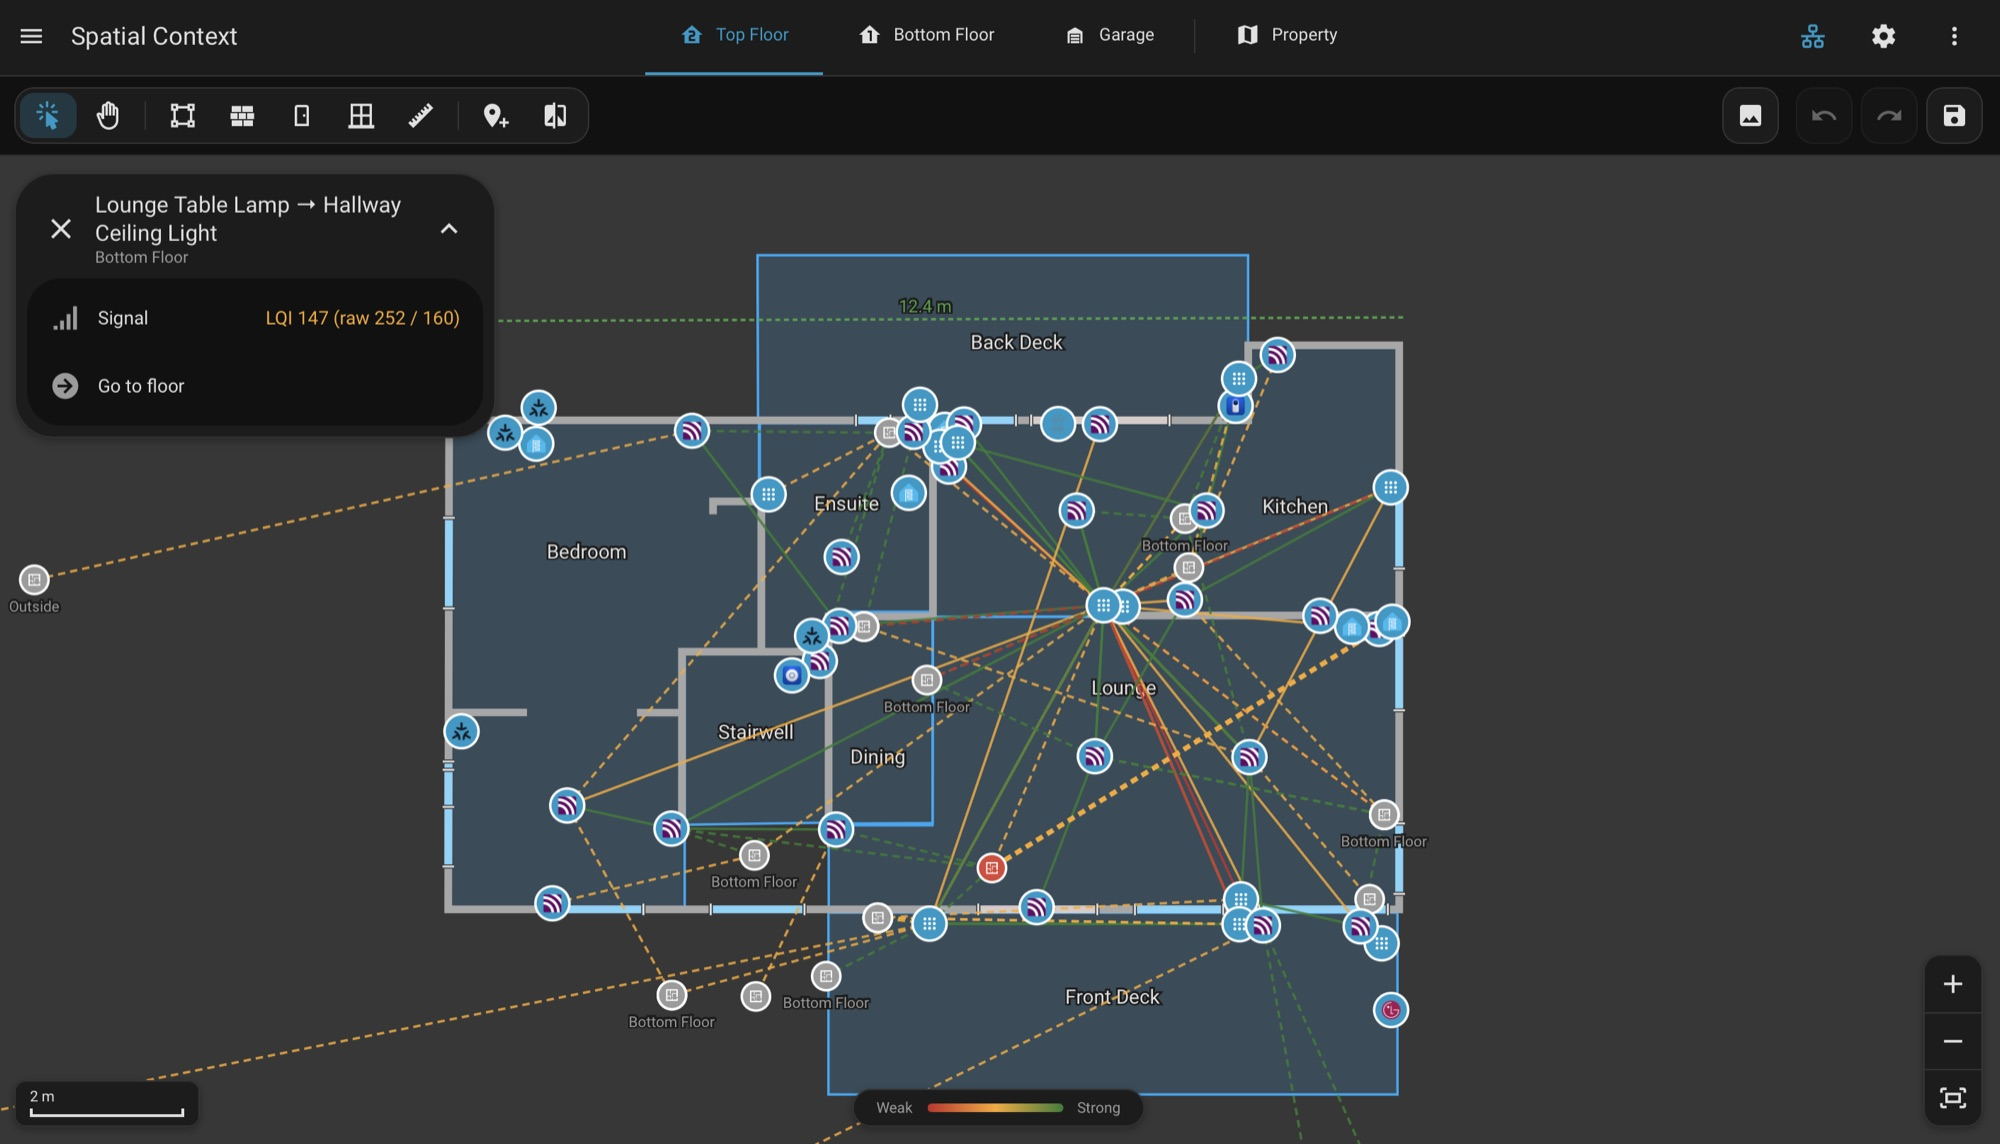
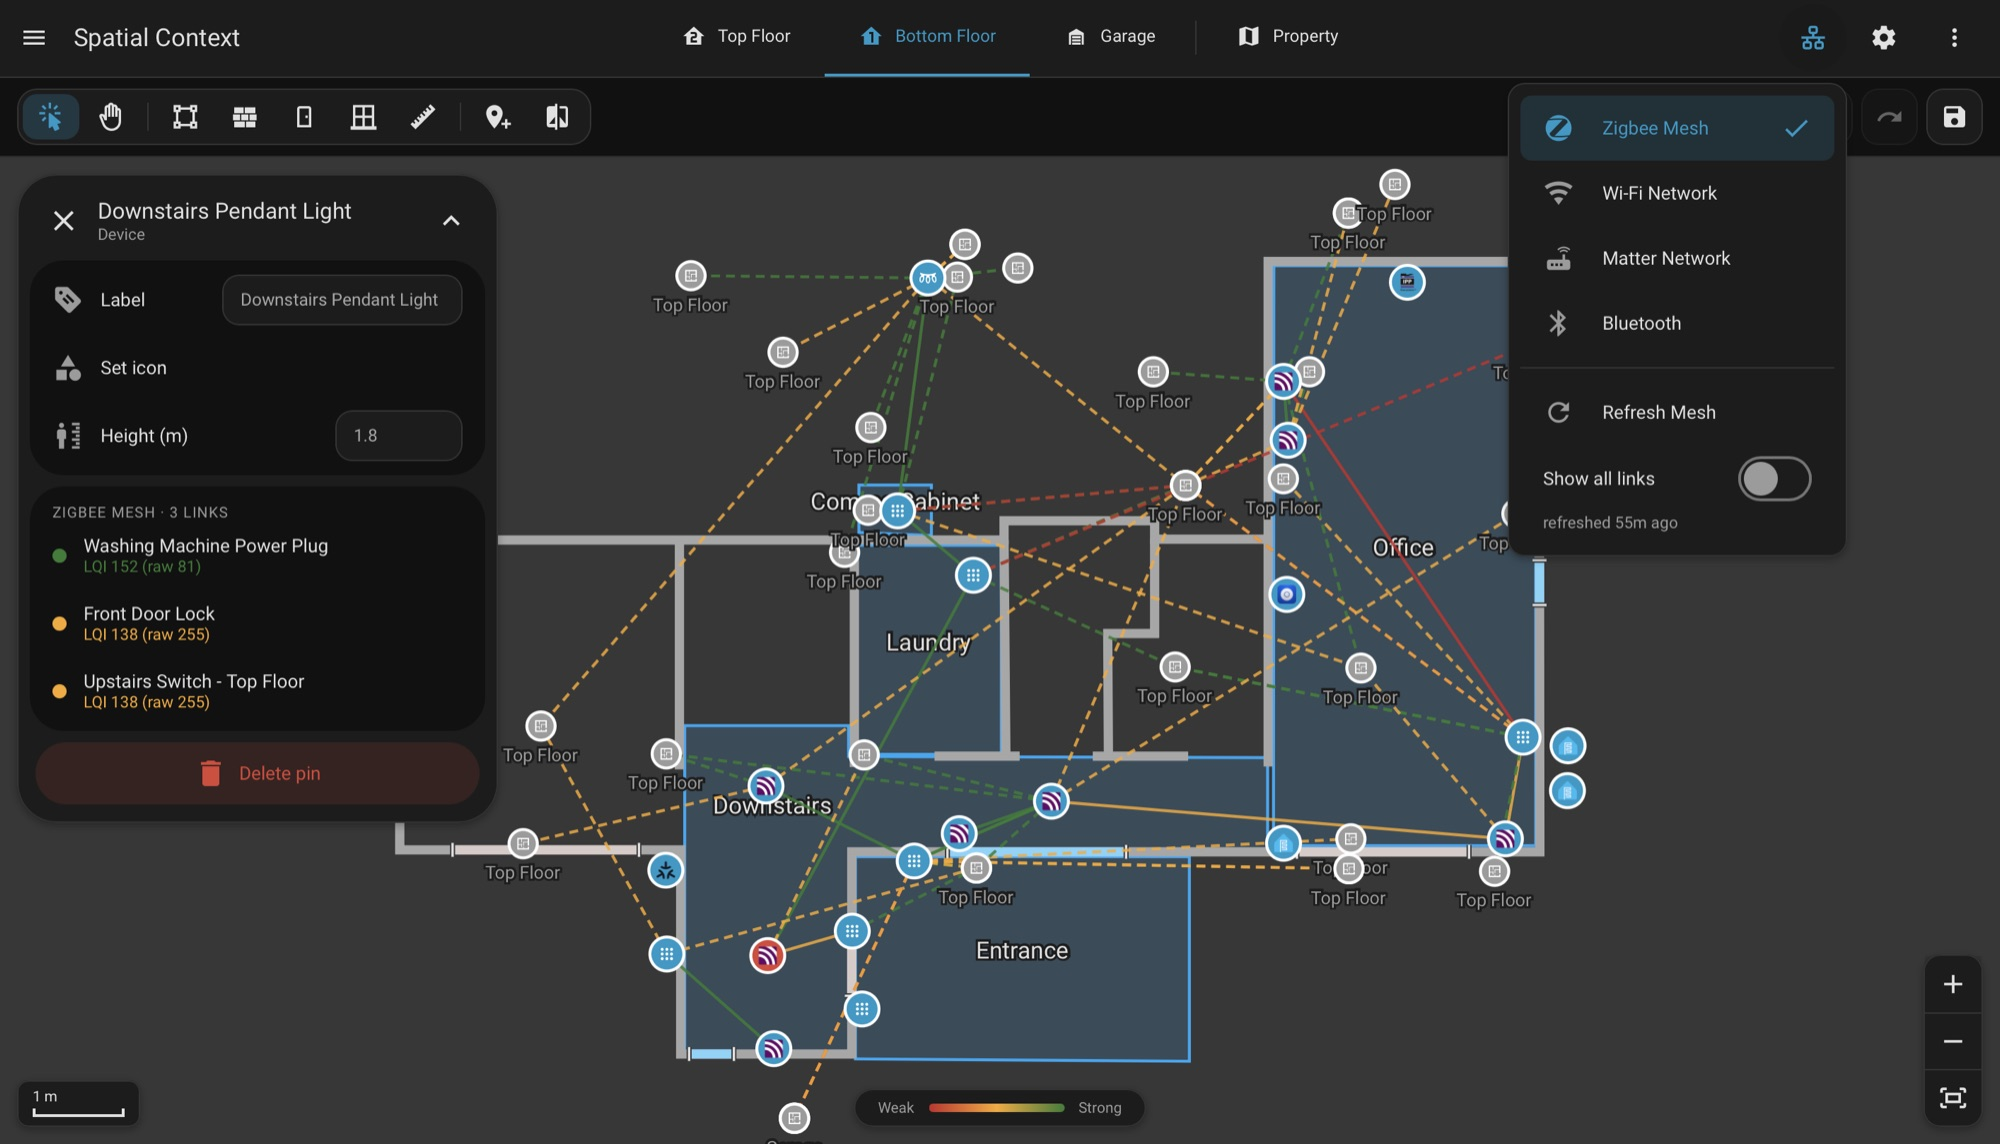
Hero image is the Bottom Floor Zigbee mesh shot (menu and device card visible); the Top Floor mesh shot moves to the Connectivity section

diff --git a/README.md b/README.md
@@ -6,7 +6,7 @@
 
 Home Assistant knows your devices by name and area, but not where anything actually *is*: how far the hallway sensor is from the router, which walls sit between a Zigbee bulb and its parent, what's on the other side of the garage door. Spatial Context lets you trace your floor plans over the top of your house plans, place your real devices on them, and hand the result to an AI assistant, an automation or a script as real-world, measured data.
 
-![Spatial Context showing a live Zigbee mesh over the Top Floor: rooms, walls, placed devices, and every link coloured by signal quality](docs/screenshot-main.jpeg)
+![Spatial Context on the Bottom Floor with the Zigbee mesh layer on: every link coloured by signal quality, the layer menu open, and a device card listing that device's links](docs/screenshot-main.jpeg)
 
 ## What you get
 
@@ -183,7 +183,7 @@ The cog in the header opens **Settings**. They're shared by everyone who uses th
 
 The **network** button in the header opens the layers. Pick one to draw that network's links between your placed devices, coloured weak to strong, with a key along the bottom of the canvas. The layer **stays on** after you close the menu (the button turns blue while one is showing); pick it again to turn it off. Select a device and its card lists every link it has, strongest first, with the signal detail. Click a line for that link's details.
 
-![Zigbee mesh layer on the Bottom Floor, with the layer menu open and a device card listing its links](docs/screenshot-zigbee-mesh.jpeg)
+![Zigbee mesh layer on the Top Floor, with a link selected and its signal shown in the card](docs/screenshot-zigbee-mesh.jpeg)
 
 - **Zigbee** comes from Zigbee2MQTT's network scan. A scan takes a minute or two, so results are cached: picking the layer shows the last scan, and **Refresh Mesh** runs a new one. By default it draws each device's strongest link on its own floor and to other floors, every parent and child route, and the coordinator's direct links (LQI 50+). **Show all links** draws the full neighbour table, like Z2M's own map. LQI isn't comparable between chipsets (some Hue bulbs report near 255 for everything, TI coordinators read low), so each device's readings are corrected for its own scale, worked out from how it and its neighbours rate the same links, and a link is graded on its weaker side. The link details show the corrected and the raw values.
 - **Wi-Fi** links each client to its access point, with signal strength where available. It works with UniFi Network (including clients whose tracker entity is disabled), TP-Link Omada and the custom TP-Link Deco integration.
